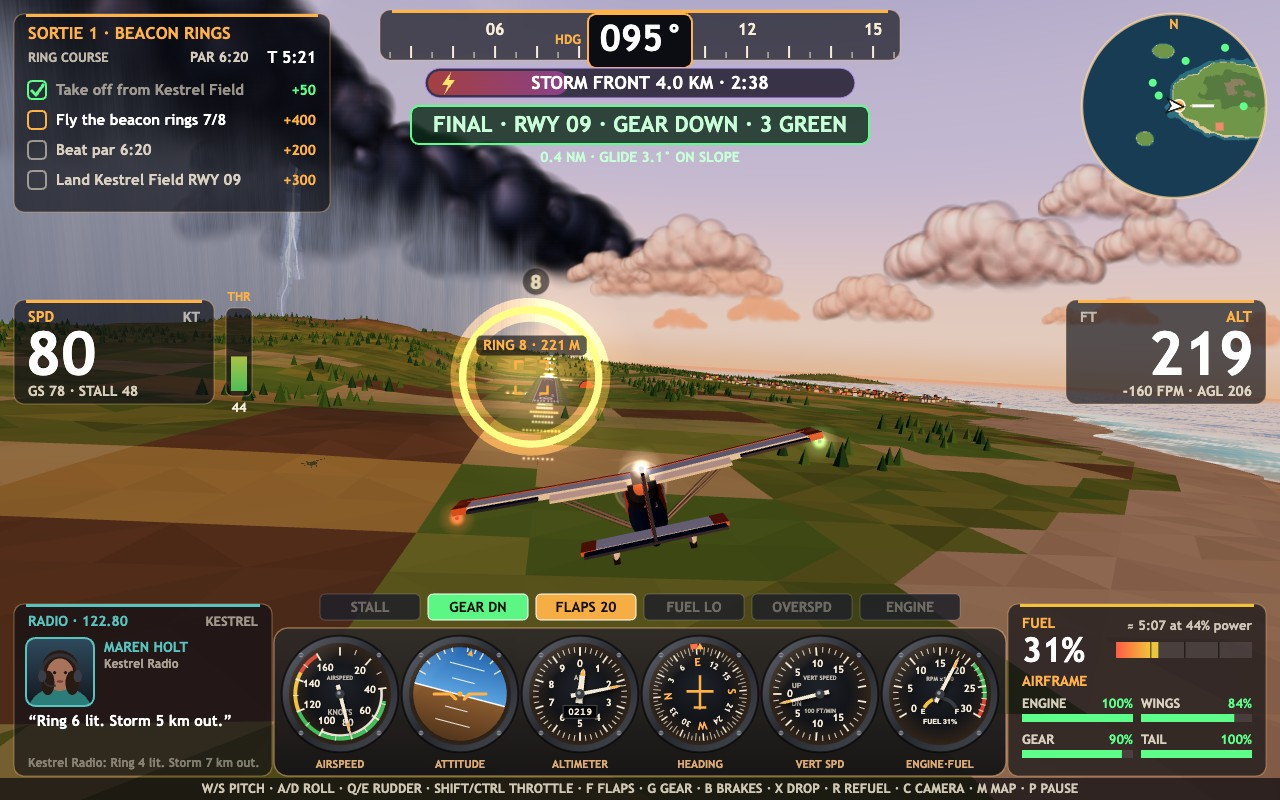
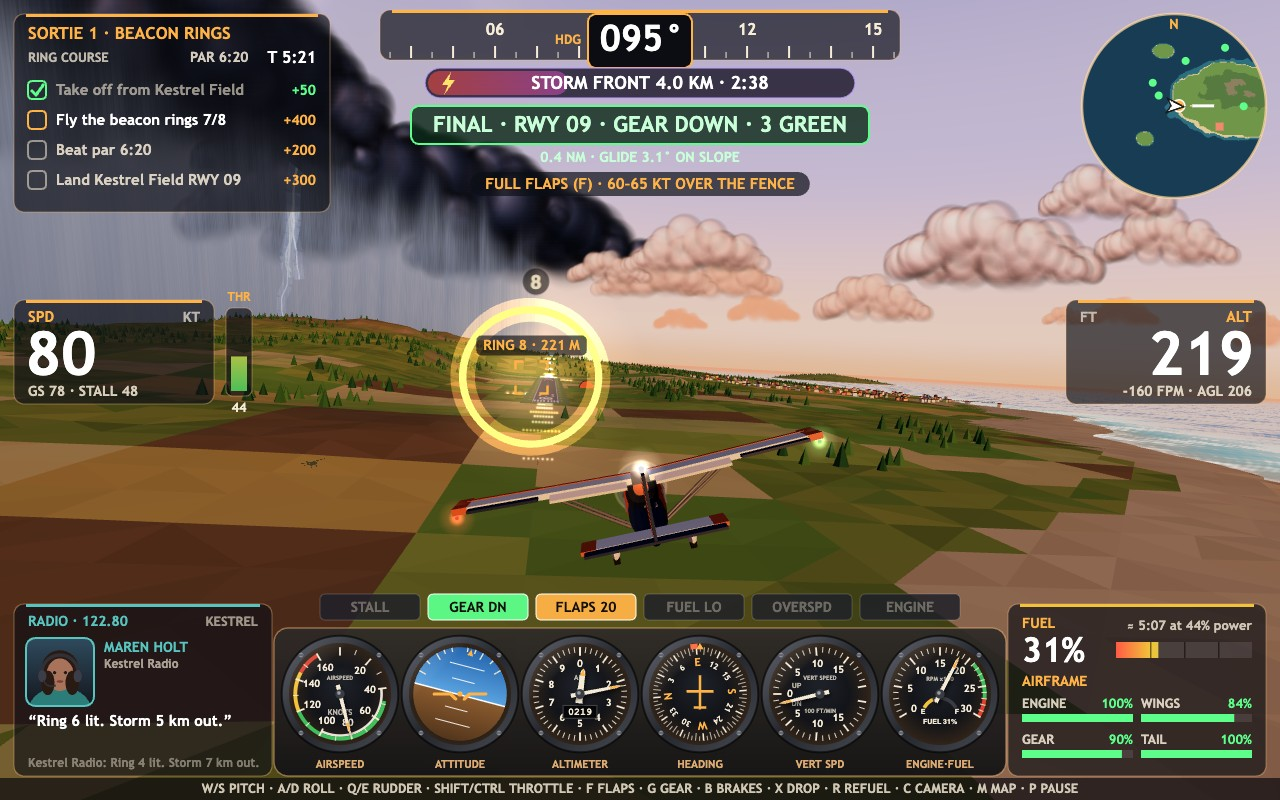
Contextual pilot hints: power and rotate, clean-up, full flaps on final, brakes, refuel

Changed region(s): [[0.375, 0.1875, 0.6562, 0.25]]

diff --git a/game/src/hud.js b/game/src/hud.js
@@ -390,6 +390,41 @@ function targetMarker(g, frame, target, labelText, colour) {
   text(g, `${labelText} · ${distText}`, ex, ey + 22, 14, colour, 'center', 800);
 }
 
+/** A one-line nudge for what the pilot should do next, from the aircraft's state. */
+export function pilotHint(session, approach) {
+  const a = session.aircraft;
+  const kt = a.ias * KT;
+  if (session.state !== 'flying') return null;
+  if (a.onGround) {
+    const stopped = kt < 2;
+    if (stopped && a.firstTouchdown) return 'HOLD R TO REFUEL AND REPAIR · SHIFT TO TAKE OFF AGAIN';
+    if (a.firstTouchdown) return 'HOLD B TO BRAKE · Q/E TO STEER';
+    if (a.throttle < 0.6) return 'HOLD SHIFT FOR FULL POWER · Q/E TO STEER';
+    if (kt > 40) return 'PULL BACK (S) TO ROTATE AT 55 KT';
+    return null;
+  }
+  if (a.stallWarning) return 'STALL WARNING · NOSE DOWN (W) · POWER UP (SHIFT)';
+  if (approach?.final && approach.distance < 3500) {
+    if (!a.gearDown) return 'GEAR DOWN (G) FOR LANDING';
+    if (a.flapDetent < 2) return 'FULL FLAPS (F) · 60–65 KT OVER THE FENCE';
+    return null;
+  }
+  if (a.gearDown && a.agl > 120 && kt > 85) return 'CLEAN UP: GEAR UP (G) · FLAPS UP (F)';
+  if (a.fuel < 15 && a.engineRunning) return 'FUEL LOW · EASE THE THROTTLE · LAND AND HOLD R';
+  return null;
+}
+
+function hintLine(g, W, y, hint) {
+  if (!hint) return;
+  g.font = `800 15px ${FONT}`;
+  const w = g.measureText(hint).width + 30;
+  g.fillStyle = 'rgba(12,14,22,0.7)';
+  g.beginPath();
+  g.roundRect(W / 2 - w / 2, y - 12, w, 24, 12);
+  g.fill();
+  text(g, hint, W / 2, y + 1, 15, AMBER, 'center', 800);
+}
+
 /** The rescue drop cue: where the crate would land if let go now, and how far off the boat. */
 function dropCue(g, frame) {
   const session = frame.session;
@@ -498,6 +533,7 @@ export function drawFlightHud(g, frame) {
   } else {
     annunciators(g, W / 2, H - 360, session, read);
   }
+  hintLine(g, W, frame.approach?.final ? 184 : 122, pilotHint(session, frame.approach));
   dropCue(g, frame);
   banner(g, W, frame);
   if (frame.mapOpen) {
